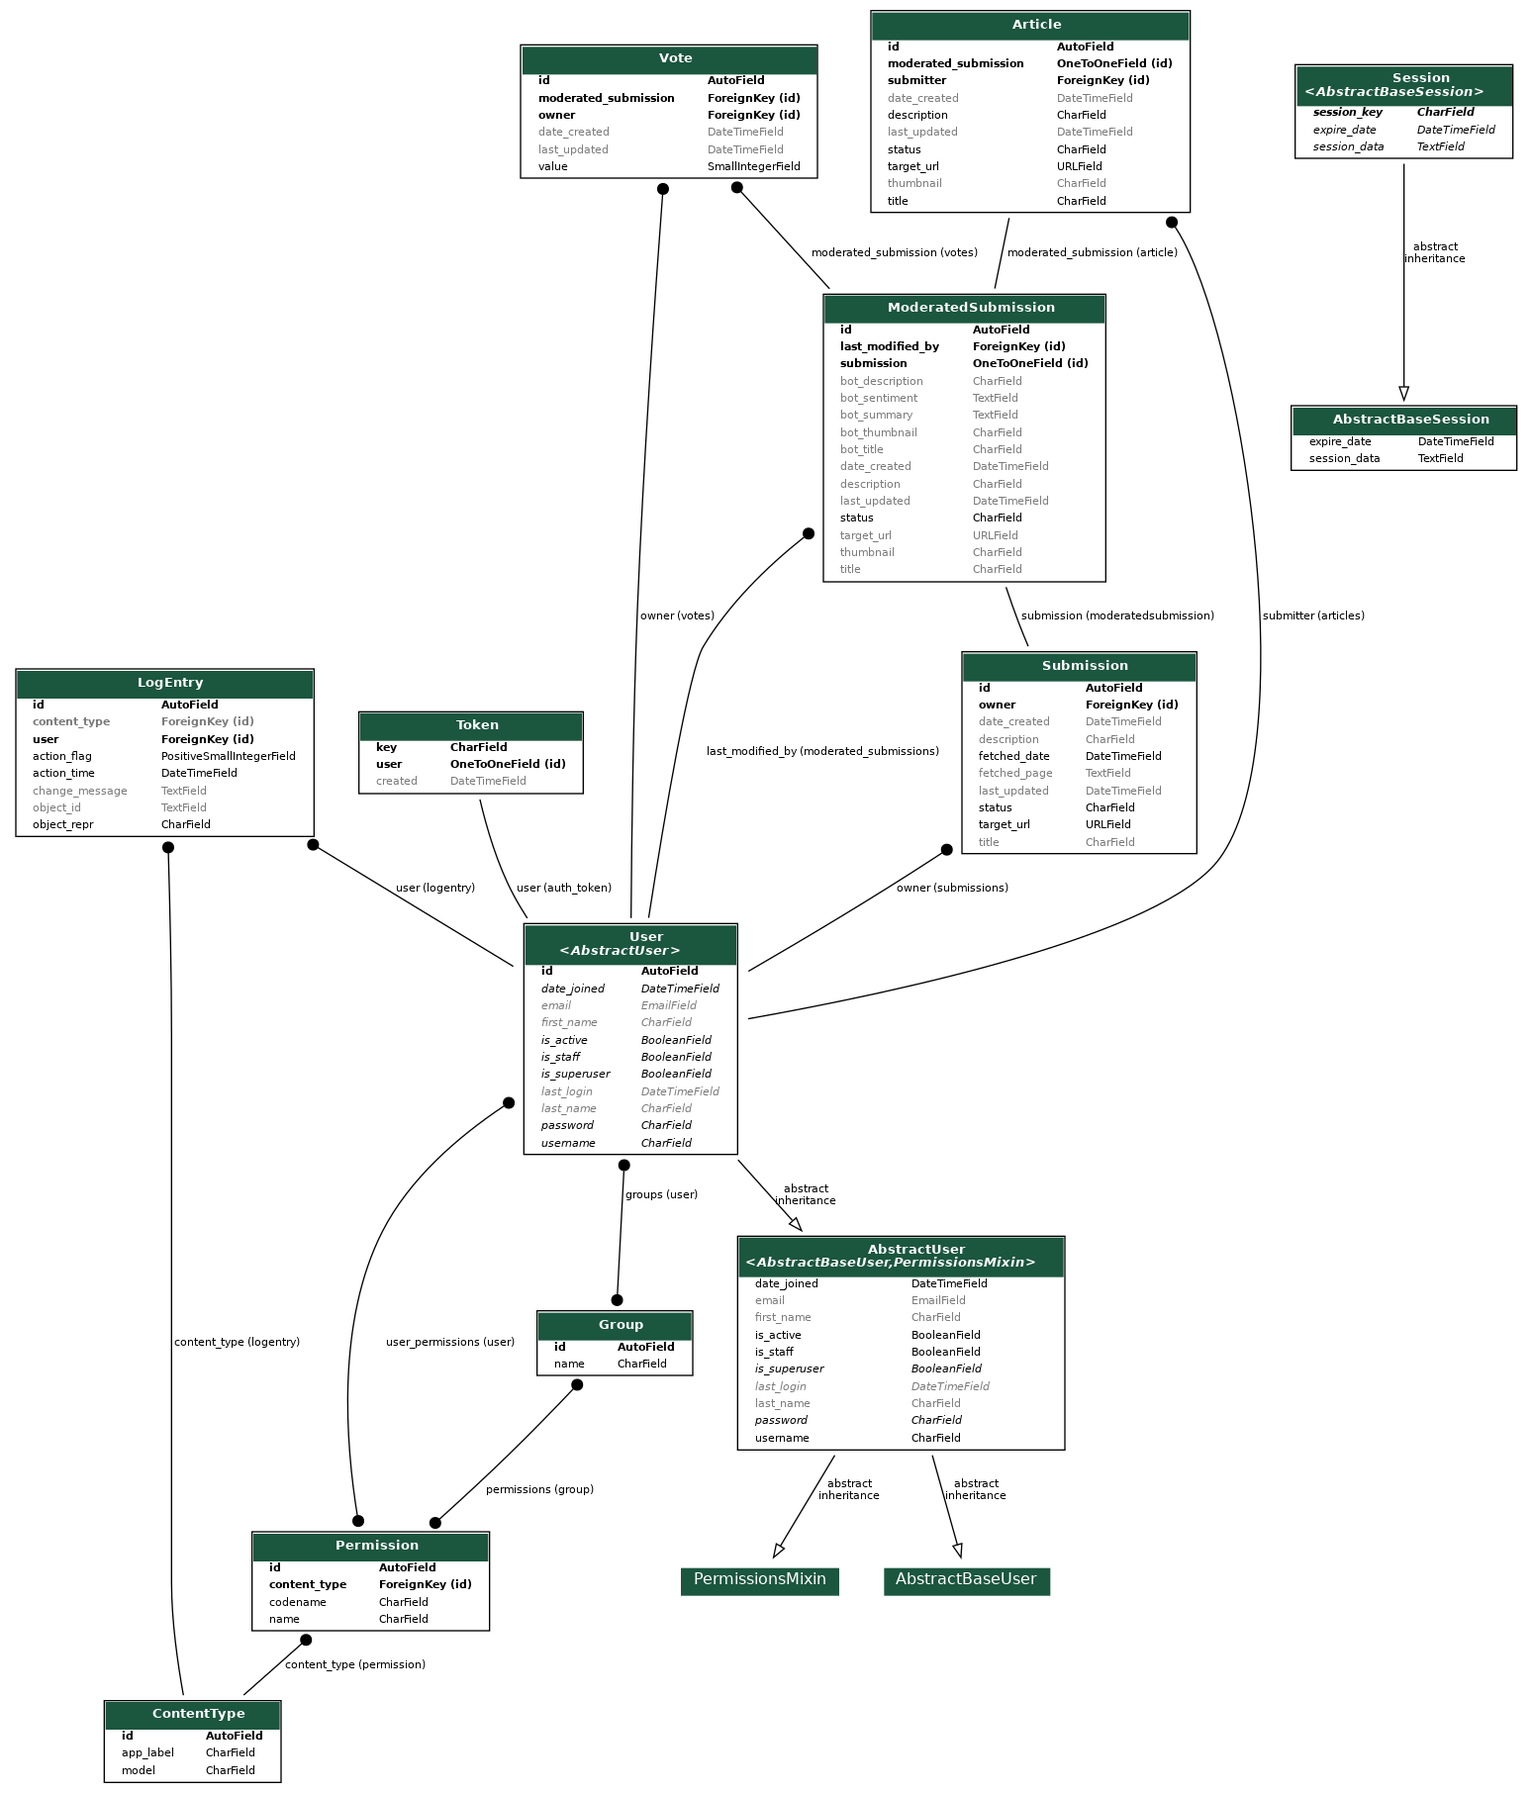
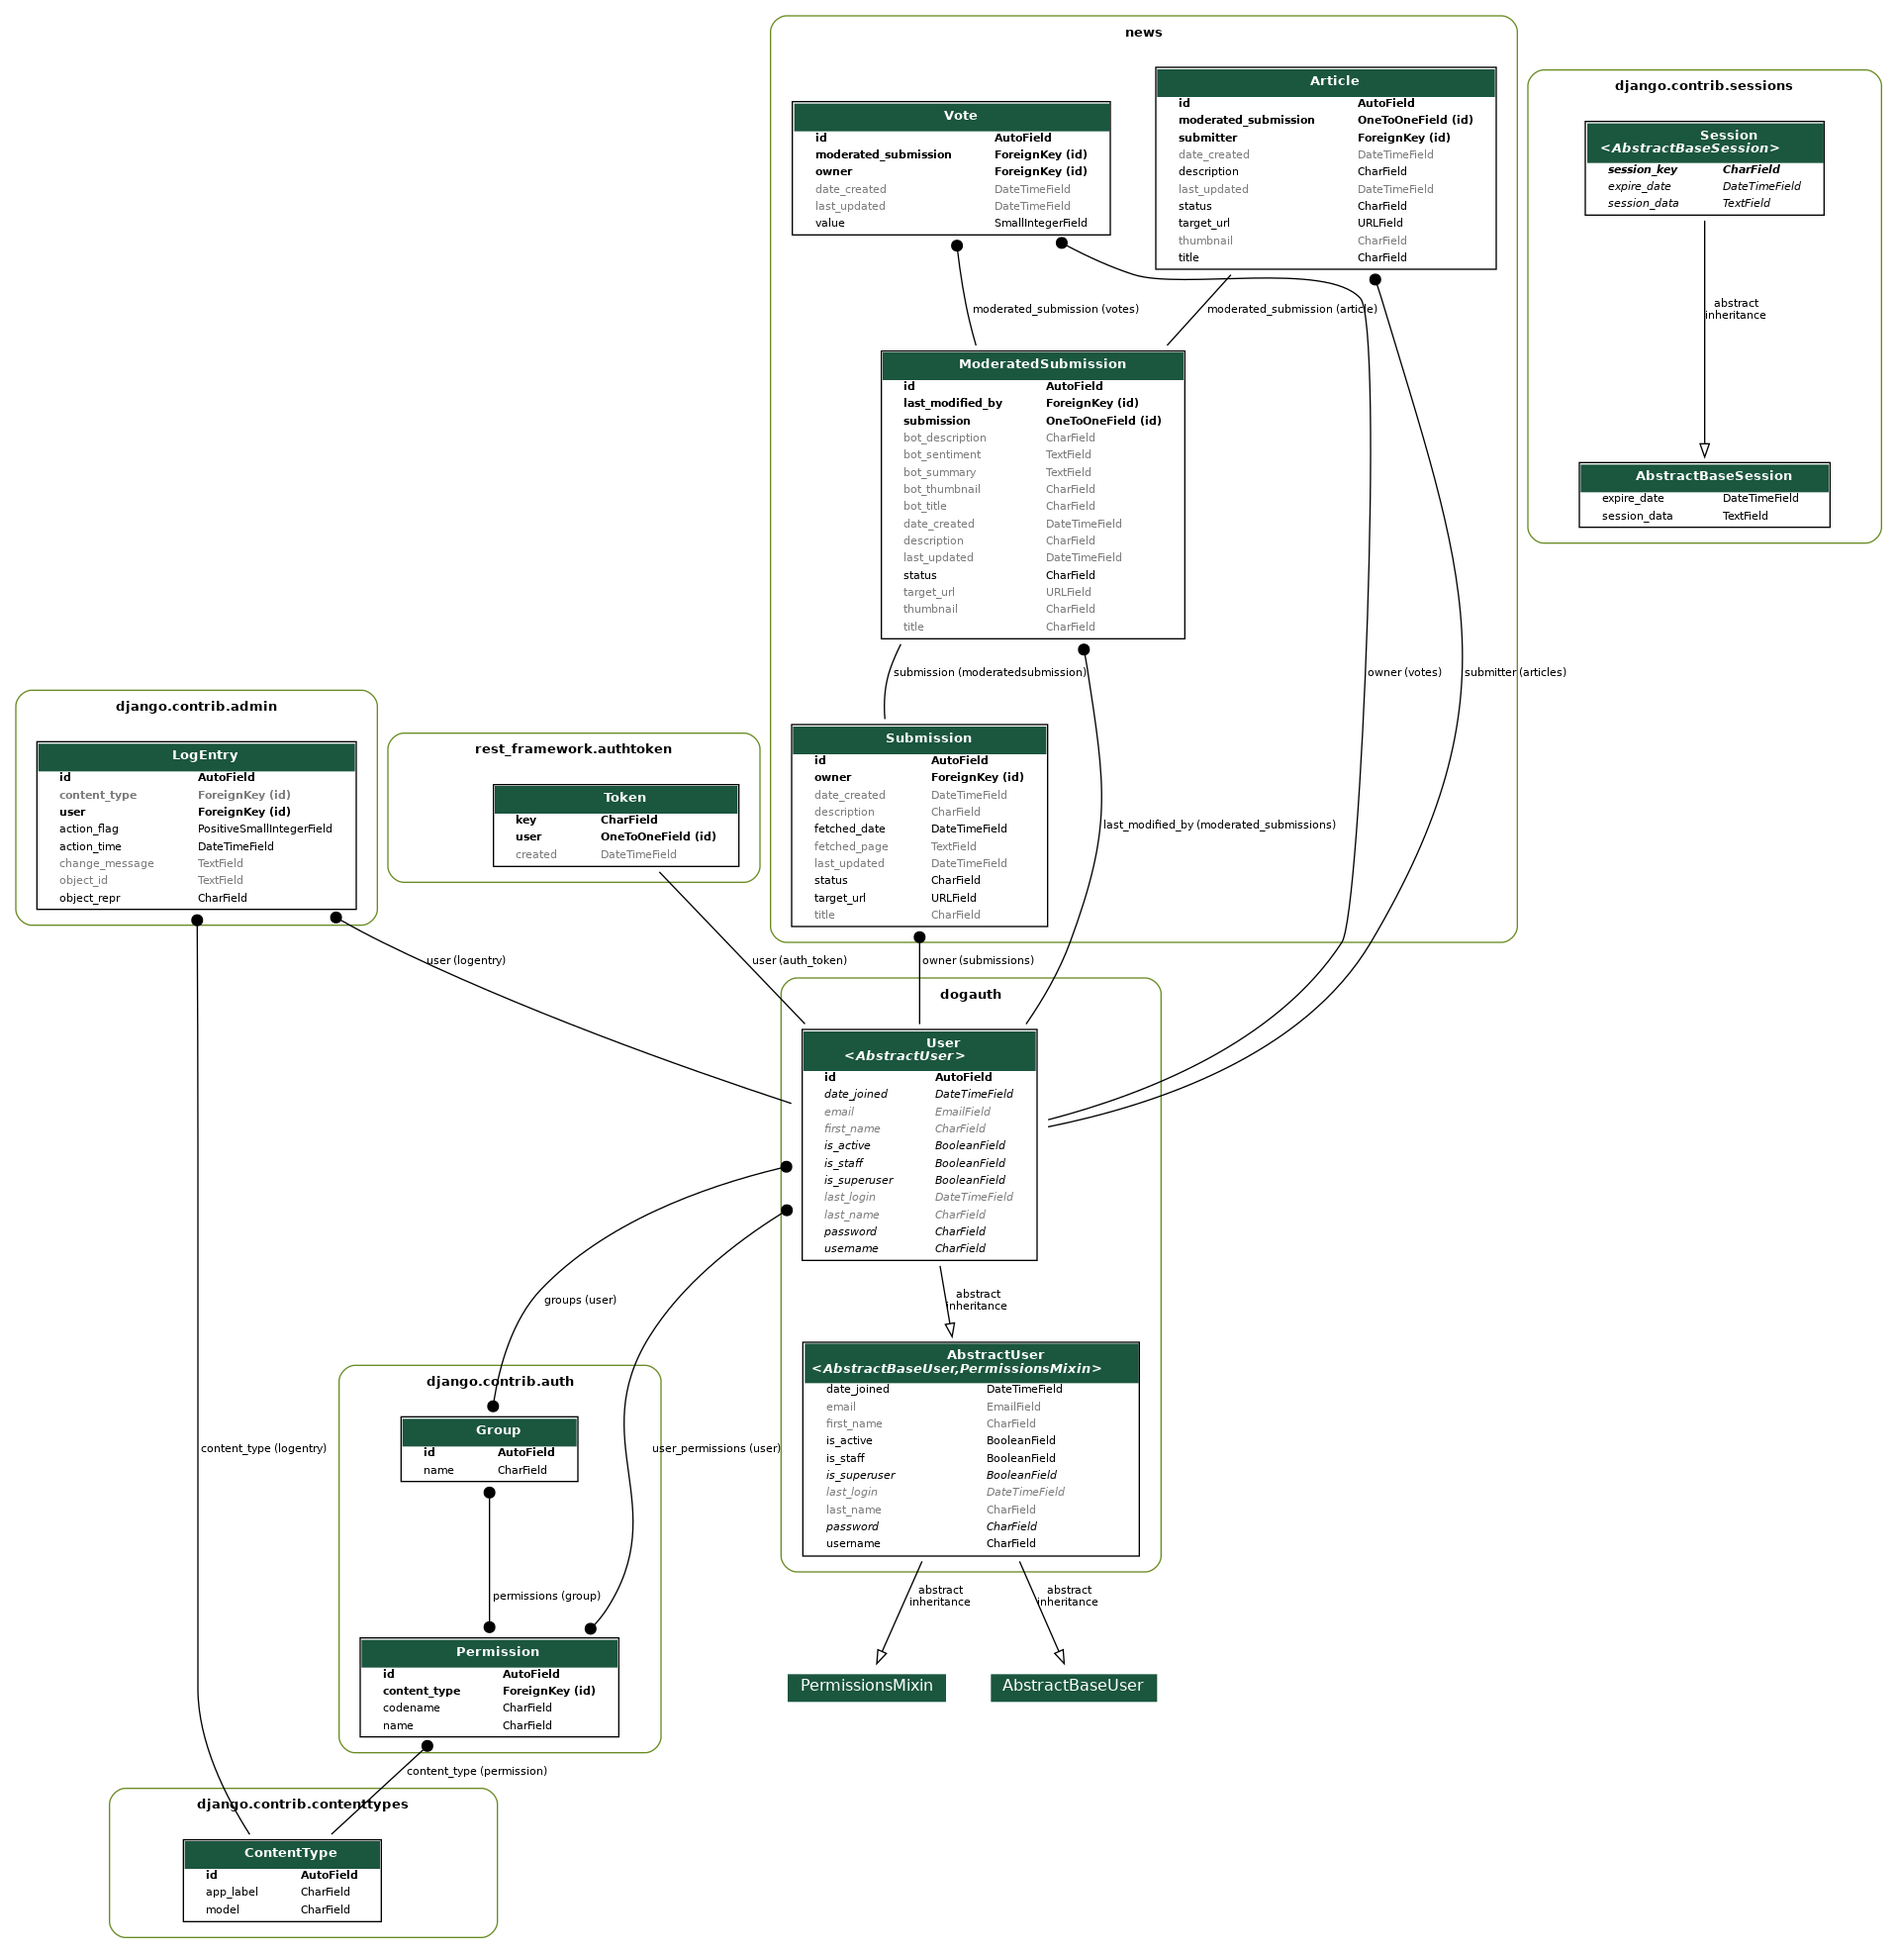
group models in graph

diff --git a/DEV NOTES.md b/DEV NOTES.md
@@ -669,7 +669,7 @@ Some notes on ipython:
 ```bash
 apt install -y graphviz
 pip install pydotplus
-./manage.py graph_models -a -o models.png
+./manage.py graph_models -a -g -o models.png
 ```
 
 You can see the result here:
